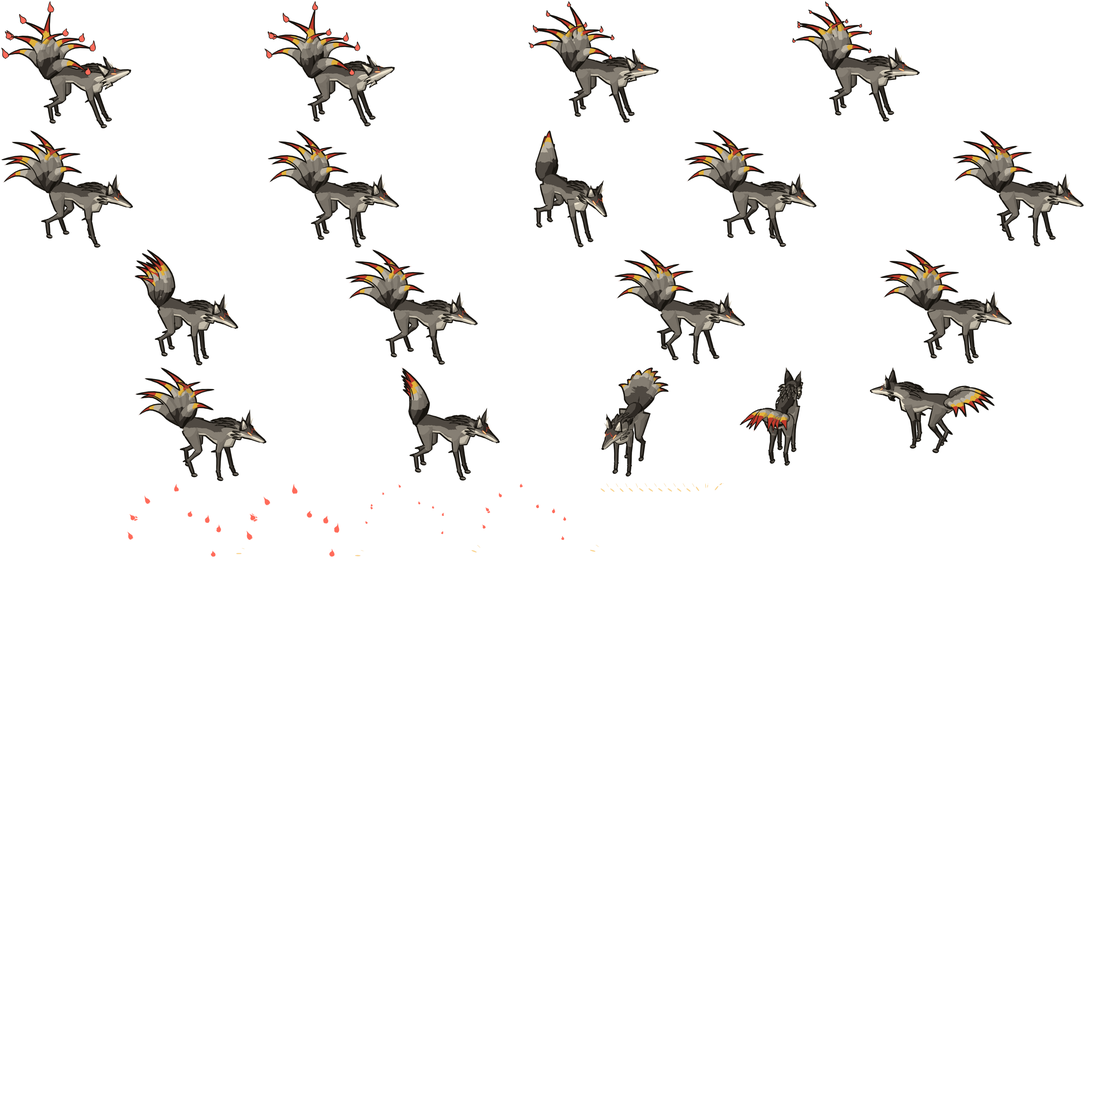
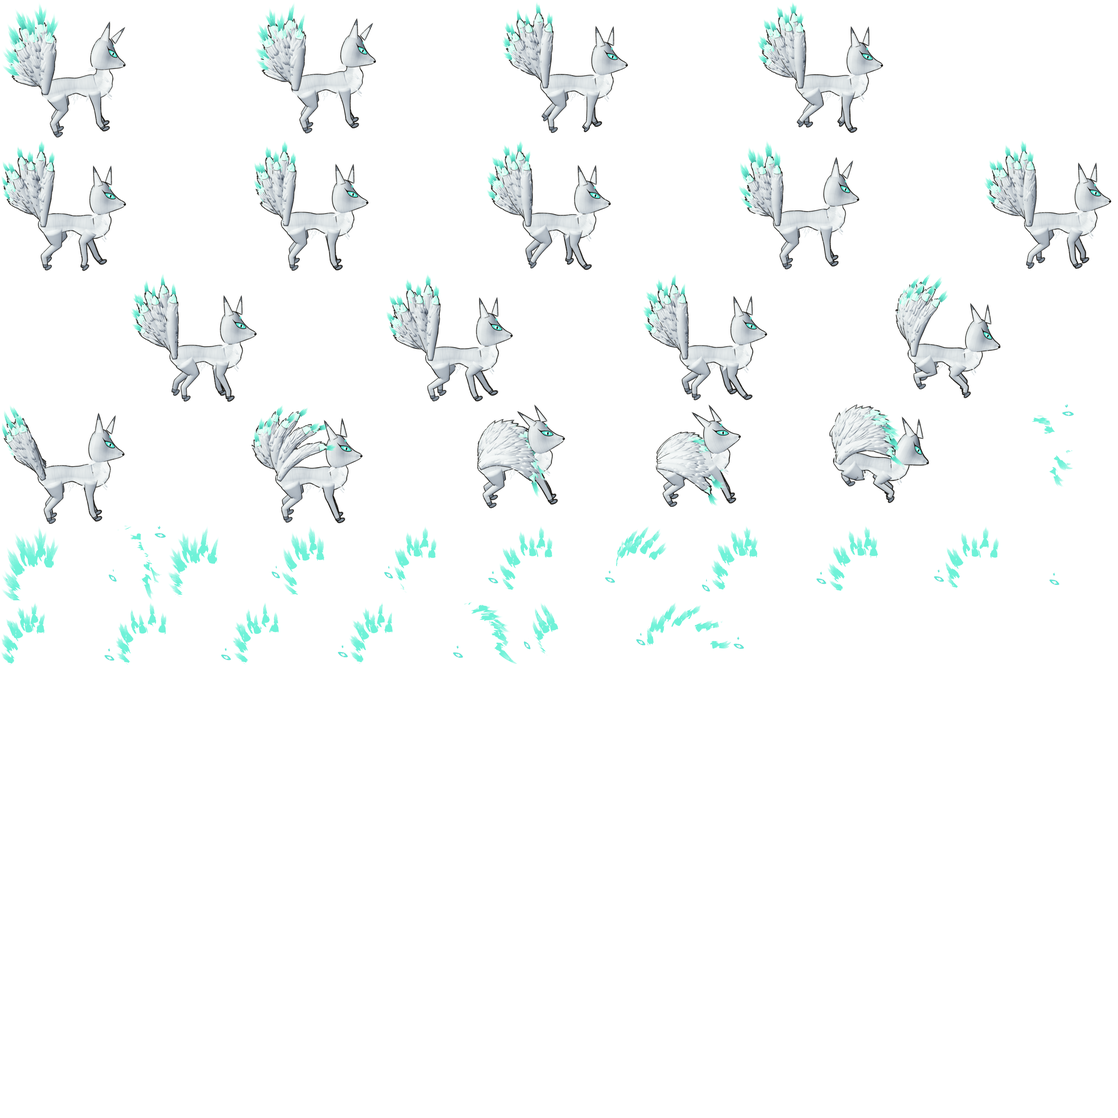
美术：九尾按精修三维重画（第五批）
- 九尾借赤面狐的骨架、头、耳、腿和尾巴做法，放大拉长：月白的毛、青眼、额心一簇青火印，
  九条尾巴扇形展开，尾尖一截青火带火舌。扫尾时九尾从背上往前拱、再往前下扫；召唤时尾巴张到最开、尾火腾起。
- 尾火走 AOV 发光（尾巴是一整个物体，挂发光材质会整条进发光层）。
- 帧 640²、锚点、动画名、方向、挂点 eyes 都不变；配准只取躯干一段（register_band），尾巴扇面不干扰。
- contact_radius 34.8（move；sweep 42.4、summon 31.9），原来按 radius 40；眼色改成 #5FE8D6。
- boss 图集只有九尾，没换的帧 0 个；check_asset、check_atlas 通过。

Claude-Session: https://claude.ai/code/session_016wrsqW1m7DE4TZou4HCj3C

diff --git a/art/models/boss_v2.py b/art/models/boss_v2.py
@@ -1,0 +1,325 @@
+"""九尾（精修三维，夜主）：巨大的白狐，九条尾巴像扇面一样展开，尾尖染着青火。
+
+设定（LORE 附录）：“青丘之山……有兽焉，其状如狐而九尾。”古书里它吃人，也是涂山的祥瑞；长夜里，它是狐村所有小狐狸的母亲。
+外形（世界观会话）：巨大的白狐，身形修长，九条尾巴像扇面一样展开，尾尖染着青火。额心一点青，眼睛也是青的。
+脸上不画红（和赤面狐分开）。主色月白、青；美而凛，是护崽的母亲，凶起来不留情。
+造型：借用赤面狐（models/fox_v2.py：同一族）的骨架、躯干、头、耳、腿和尾巴的做法，整体放大、拉高拉长（修长）；
+毛是月白（暗部偏青灰），耳背、耳尖淡青灰；没有朱砂脸谱、没有红绳；额心一簇青火形的印记（发光），眼是青的丹凤眼（发光），
+墨勾眼线、竖瞳；颊后一圈白毛炸开（像披风领）。九条尾巴从尾根扇形展开（前后错开几层），尾尖一截是青火（发光），
+火舌往外飘。
+动画（只画 E）：
+  move   8 帧：赤面狐的小跑步态，九尾张着扇面、一条条带着波轻轻摆。
+  sweep  6 帧（不循环，2 帧蓄力）：0 伏低、九尾往上收拢，1 九尾从背上往前拱过来、尾火大盛（预警期间停在这一帧），
+         2 往前下方一扫而过，3 扫到身前低处，4、5 收回扇面。
+  summon 4 帧（不循环）：昂头，九尾张到最开、尾尖的青火一盏盏腾起来（召狐火），3 稍落。
+帧 640²（2 倍），锚点 (0.5, 0.8)（大妖物）。挂点 eyes。
+
+    root, parts, sockets = build_boss()
+    pose_boss(parts, "move", i, 8)
+"""
+
+from __future__ import annotations
+
+import math
+import sys
+from pathlib import Path
+
+import bpy
+import numpy as np
+from mathutils import Matrix, Vector
+
+ART = Path(__file__).resolve().parents[1]
+for p in (ART, ART / "models", ART / "post"):
+    if str(p) not in sys.path:
+        sys.path.insert(0, str(p))
+from style import bstyle as B  # noqa: E402
+from style import style as S  # noqa: E402
+import kit as K  # noqa: E402
+import v2kit as V2  # noqa: E402
+import enemy_design as DZ  # noqa: E402
+import fox_v2 as FX  # noqa: E402
+
+I = S.INK
+EYE = "#5FE8D6"  # 青眼
+EYE_HOT = "#E6FFFB"
+FIRE = "#6FF2D8"  # 尾尖的青火
+FIRE_HOT = "#E8FFF9"
+SCALE = (1.9, 2.05, 2.15)  # 模型坐标的 (左右, 前后, 高)：整体放大，拉长、拉高（修长）
+WHITE = "#F6F8F8"
+# 月白的毛（d 从暗到亮）：暗部偏青灰、亮部近白
+FUR_STOPS = [(0.00, "#323A46"), (0.16, "#4A5564"), (0.30, "#66717F"), (0.44, "#86909C"), (0.56, "#A4AEB8"),
+             (0.68, "#C2CAD0"), (0.80, "#DCE2E4"), (0.90, "#EDF1F1"), (1.00, WHITE)]
+EAR_STOPS = [(0.0, "#2C3440"), (0.5, "#56626E"), (0.85, "#7E8A96"), (1.0, "#9AA6B0")]  # 耳背、耳尖：淡青灰
+FIRE_STOPS = [(0.0, "#3FB8A6"), (0.45, FIRE), (1.0, FIRE_HOT)]
+RIM = S.mix("#DDF6F2", I["qing"], 0.15)
+N_TAILS = 9
+
+
+def fur_material(name, seed, zone=True, streak=0.16, bias=-0.3, rim=0.6):
+    return V2.paint_material(name, FUR_STOPS, wash=0.24, wash_scale=2.6, seed=seed, shade_attr="zone" if zone else None,
+                             shade_gain=1.0, streak=streak, streak_scale=(4.0, 60.0), rim_hex=RIM, rim=rim,
+                             rim_power=2.3, value_var=0.04, edge=0.22, bias=bias)
+
+
+def _world_to_design(w):
+    right, up, _ = B.camera_basis()
+    return 25.0 * w.dot(right), 25.0 * w.dot(up)
+
+
+# ================================================================ 组装
+def build_boss():
+    root = B.empty("JWRoot")
+    scale = B.empty("JWScale", root)
+    scale.scale = SCALE
+    body = B.empty("JWBody", scale)
+    M_fur = fur_material("JWFur", 3.0, bias=-0.06)
+    M_leg = fur_material("JWFurLeg", 5.0, bias=-0.06)
+    M_far = fur_material("JWFurFar", 6.0, bias=-0.36, rim=0.35)
+    M_head = fur_material("JWFurHead", 7.0, bias=-0.02)
+    M_tail = fur_material("JWFurTail", 9.0, streak=0.24, bias=-0.04)
+    M_ear = V2.paint_material("JWEar", EAR_STOPS, wash=0.2, seed=11.0, rim_hex=RIM, rim=0.5, edge=0.1)
+    M_paw = V2.paint_material("JWPaw", [(0.0, "#2A323C"), (0.5, "#5A6674"), (1.0, "#8A96A2")], wash=0.2, seed=12.0,
+                              edge=0.1)
+    M_cream = V2.paint_material("JWCream", [(0.0, "#9AA6B0"), (0.4, "#D6DEE2"), (0.7, "#EEF2F2"), (1.0, WHITE)],
+                                wash=0.2, seed=14.0, edge=0.1)
+    # 尾尖一截：青火（不用发光材质：发光层按物体分，整条尾巴都会算进去；这里走 AOV，只有尾尖亮）
+    M_fire = V2.paint_material("JWTailFire", FIRE_STOPS, wash=0.2, seed=10.0, edge=0.0, bias=0.35)
+    V2.add_glow_const(M_fire, 1.0)
+    M_eye = B.emissive_material("JWEye", EYE, 1.0)
+    M_hot = B.emissive_material("JWEyeHot", EYE_HOT, 1.0)
+    M_mark = B.emissive_material("JWMark", EYE, 1.0)
+    M_jiao = B.flat_material("JWJiao", I["jiao"])
+    M_flame = V2.brush_material("JWFlame", FIRE_STOPS, alpha=0.95, edge_soft=0.3, edge_dark=0.0, streak=0.35,
+                                streak_from=0.45, scale=(3.0, 8.0), fade_from=0.55, seed=31.0, glow=1.0, glow_to=0.9,
+                                glow_tip=0.5, comb=5.0)
+    parts = {"root": root, "scale": scale, "body": body}
+    FX.build_torso(body, M_fur)
+    # 胸前一蓬白毛、腹下一排毛簇
+    roots, dirs, lens, ws = [], [], [], []
+    rng = np.random.default_rng(5)
+    for k in range(18):
+        a = rng.uniform(-0.9, 0.9)
+        zc = rng.uniform(13.0, 23.0)
+        roots.append(FX.d2m(13.2 - 0.2 * abs(a) - 0.08 * (22 - zc), zc, 0.12 * a))
+        dirs.append(Vector((0.3 * a, -0.55, -0.85)))
+        lens.append(rng.uniform(0.11, 0.18)); ws.append(rng.uniform(0.035, 0.05))
+    for k in range(14):
+        x = rng.uniform(-7.0, 7.0)
+        roots.append(FX.d2m(x, 14.6 + 0.10 * abs(x), rng.uniform(-0.12, 0.12)))
+        dirs.append(Vector((0, 0.35, -1))); lens.append(rng.uniform(0.07, 0.11)); ws.append(0.035)
+    B.mesh_object("JWChestFur", FX.clumps_build(roots, dirs, lens, ws), M_cream, "none", body, sharp_deg=0)
+    # 腿
+    parts["legs"] = {}
+    for far in (False, True):
+        lat = 0.11 if far else -0.11
+        for name, rootp, segs, rad in (("front", DZ.FOX_SHOULDER, DZ.FOX_FRONT_LEG, FX.LEG_R["front"]),
+                                       ("hind", DZ.FOX_HIP, DZ.FOX_HIND_LEG, FX.LEG_R["hind"])):
+            nm = f"JW{name.title()}{'Far' if far else 'Near'}"
+            pts = [FX.d2m(x, y, lat) for x, y in DZ.fox_leg(rootp, segs)]
+            ob = FX.leg_tube(nm, pts, [r * 0.92 for r in rad], [M_far if far else M_leg, M_paw], scale,
+                             zones=lambda t: 1 if t > 0.88 else 0)
+            paw = B.mesh_object(nm + "Paw", K.ellipsoid(FX.PAW_R), M_paw, "outer", scale)
+            parts["legs"][(name, far)] = (ob, paw, lat, [r * 0.92 for r in rad])
+    # 头（转轴在颈根），朝镜头转一点
+    neck = FX.d2m(*DZ.FOX_NECK)
+    head_piv = B.empty("JWHeadPivot", scale, loc=neck)
+    head_yaw = B.empty("JWHeadYaw", head_piv, rot=(0, 0, math.radians(-12)))
+    head = FX.build_head(head_yaw, M_head)
+    # 颊后一圈白毛炸开（像披风领）
+    roots, dirs, lens, ws = [], [], [], []
+    for k in range(20):
+        a = rng.uniform(-1, 1)
+        roots.append(FX.d2m(12.2 + rng.uniform(-1.0, 1.8), 25.4 + rng.uniform(-1.6, 1.6), 0.14 * a) - neck)
+        dirs.append(Vector((0.45 * a, 0.75, -0.5)))
+        lens.append(rng.uniform(0.11, 0.18)); ws.append(rng.uniform(0.032, 0.048))
+    B.mesh_object("JWCheekFur", FX.clumps_build(roots, dirs, lens, ws), M_cream, "none", head_yaw, sharp_deg=0)
+    ear_n = FX.build_ear("JWEarNear", DZ.FOX_EAR_NEAR, head_yaw, M_head, M_cream, M_ear, neck)
+    ear_f = FX.build_ear("JWEarFar", DZ.FOX_EAR_FAR, head_yaw, M_head, M_cream, M_ear, neck)
+    ear_n.location.x -= 0.07
+    ear_f.location.x += 0.09
+    B.mesh_object("JWNose", K.ellipsoid((0.028, 0.022, 0.02)), M_jiao, "none", head_yaw,
+                  loc=FX.d2m(*DZ.FOX_NOSE) - neck + Vector((0, -0.005, 0.004)))
+    # 九条尾巴（每帧重建）：尾身白、尾尖一截青火（材质槽 1）
+    tails = []
+    for k in range(N_TAILS):
+        t = B.mesh_object(f"JWTail{k}", lambda bm: None, [M_tail, M_fire], "outer", scale)
+        tf = B.mesh_object(f"JWTailFur{k}", lambda bm: None, [M_tail, M_fire], "none", scale)
+        bpy.data.collections[B.CONTOUR_COLLECTION].objects.link(tf)
+        tails.append((t, tf))
+    flames = V2.mesh_from_arrays("JWFlames", [(0, 0, 0), (0.001, 0, 0), (0, 0.001, 0)], [(0, 1, 2)], M_flame, "none",
+                                 scale)
+    parts.update(head_piv=head_piv, head_yaw=head_yaw, head=head, ear_n=ear_n, ear_f=ear_f, tails=tails, flames=flames,
+                 neck=neck)
+    # 脸：E 向静止姿态下按设计稿投到头上——墨勾的丹凤眼、青眼、竖瞳，额心一簇青火形的印记
+    B.set_direction(root, "E")
+    bpy.context.view_layer.update()
+    tree = V2.bvh_world(head)
+
+    def scr(pts):  # 赤面狐设计稿上头部的点 → 这里画面上的点（经过放大、转头）
+        return [_world_to_design(head_yaw.matrix_world @ (FX.d2m(x, y) - neck)) for x, y in pts]
+    V2.design_patch("JWEyeInk", tree, V2.closed_smooth(scr(DZ.FOX_EYE_INK), 60), M_jiao, head_yaw, lift=0.006,
+                    spacing=0.5)
+    V2.design_patch("JWEye", tree, V2.closed_smooth(scr(DZ.fox_eye_poly(1.0)), 40), M_eye, head_yaw, lift=0.007,
+                    spacing=0.4)
+    V2.design_patch("JWEyeHot", tree, V2.closed_smooth(scr(DZ.fox_eye_poly(0.5)), 28), M_hot, head_yaw, lift=0.008,
+                    spacing=0.3)
+    (ex, ey), hl, hh, tilt = DZ.FOX_EYE2
+    a = math.radians(tilt)
+    pupil = [(ex + x * math.cos(a) - y * math.sin(a), ey + x * math.sin(a) + y * math.cos(a))
+             for x, y in ((0.10 * hl, 0.80 * hh), (-0.07 * hl, 0.0), (0.10 * hl, -0.78 * hh), (0.24 * hl, 0.0))]
+    V2.design_patch("JWPupil", tree, V2.closed_smooth(scr(pupil), 24), M_jiao, head_yaw, lift=0.009, spacing=0.25)
+    # 额心的青印：一簇往上挑的小火苗（三瓣）
+    cx, cy = DZ._hx([(17.3, 33.0)])[0]  # 额心：两眼之上、眉心往上一点
+    mark = [(cx + 0.75 * x, cy + 0.75 * y) for x, y in
+            ((0.0, -0.7), (0.5, -0.05), (0.26, 0.55), (0.08, 1.25), (-0.16, 0.5), (-0.55, 0.8), (-0.5, -0.05))]
+    V2.design_patch("JWMark", tree, V2.closed_smooth(scr(mark), 30), M_mark, head_yaw, lift=0.006, spacing=0.25)
+    (fx, fy), fl, fh, ft = DZ.FOX_EYE_FAR
+    inv = head_yaw.matrix_world.inverted()
+    rot3 = inv.to_3x3()
+    hits = V2.project_design(tree, scr([(fx, fy)]))
+    if hits[0][0] is not None:
+        p_ = inv @ hits[0][0]
+        n_ = (rot3 @ hits[0][1]).normalized()
+        B.mesh_object("JWEyeFar", K.ellipsoid((0.016, 0.018, 0.011)), M_eye, "none", head_yaw, loc=p_ + n_ * 0.004)
+    sock = B.empty("JWSocketEyes", head_yaw)
+    sock.location = FX.d2m(ex * 0.7 + fx * 0.3, ey * 0.7 + fy * 0.3) - neck
+    B.set_direction(root, "S")
+    parts["sockets"] = {"eyes": sock}
+    bpy.context.view_layer.update()
+    return root, parts, parts["sockets"]
+
+
+# ================================================================ 姿态
+# 九条尾巴的扇面（move 时）：根部的方向（度，从 +x 逆时针）、每节弯多少、离镜头（米，负 = 近）、长短
+FAN = [(92, -0.45, -0.22, 0.97), (101.5, -0.6, 0.16, 0.98), (111, -0.75, -0.14, 0.97), (120.5, -0.9, 0.22, 0.95),
+       (130, -1.0, -0.06, 0.91), (139.5, -1.1, 0.28, 0.86), (149, -1.2, 0.08, 0.78), (158.5, -1.3, 0.32, 0.7),
+       (168, -1.4, 0.18, 0.62)]  # 扇面：尾巴从尾根往上、往后一路排开，各自只略往上弯（不然九条都卷成一束）；后面的短（帧宽有限）
+
+
+def tail_layout(anim, frame, n):
+    """每条尾巴：(根部方向, 每节弯, 波幅, 相位, 长度倍数, 炸毛, 火的大小)。"""
+    ph = 2 * math.pi * frame / max(n, 1)
+    out = []
+    for k, (ang, curl, lat, ln) in enumerate(FAN):
+        if anim == "move":
+            out.append((ang + 3.0 * math.sin(ph + 0.6 * k), curl, 5.0, ph + 0.5 * k, ln, False, 1.0))
+        elif anim == "sweep":
+            # 0 往上收拢；1 从背上往前拱过来（预警时停在这）；2 往前下方扫；3 扫到身前低处；4、5 收回扇面
+            s = (k - 4) / 4.0
+            T = [(116 + 22 * s, -3.0, 1.0, 1.15), (92 + 26 * s, -6.4, 1.05, 1.6), (52 + 26 * s, -6.0, 1.05, 1.5),
+                 (18 + 26 * s, -3.6, 1.0, 1.2), (112 + 50 * s, -4.0, 0.98, 1.0), (ang - 4, curl, ln, 1.0)][frame]
+            a0, cu, lk, fire = T
+            out.append((a0, cu, 2.0, ph + 0.4 * k, ln * lk, frame in (1, 2), fire))
+        else:  # summon：张到最开、尾尖青火一盏盏腾起来
+            spread = [0.6, 1.12, 1.16, 1.06][frame]
+            a0 = min(145 + (ang - 145) * spread, 176.0)  # 最后面几条别甩出画（帧左边）
+            fire = [1.2, 1.6, 1.9, 1.4][frame]
+            ln2 = ln * (0.92 if k < 5 else 0.72)  # 后面几条短一点（别出画）
+            out.append((a0 - 6 * (frame in (1, 2)), curl * 0.8, 3.0, ph + 0.5 * k, ln2, frame in (1, 2), fire))
+    return out
+
+
+def pose_boss(parts, anim, frame, n):
+    if anim == "move":
+        pose = DZ.fox_move_pose(frame, n)
+    elif anim == "sweep":
+        F = [  # body(dx, dy, rot, sx, sy), head(rot, dx, dy), ears, 前腿, 后腿
+            ((-1.0, -2.6, -6, 1.02, 0.97), (-8, 0.6, -1.0), 22, [-22, 40, -10], [46, -70, 28]),
+            ((-1.8, -4.2, -9, 1.04, 0.94), (-14, 1.2, -1.8), 34, [-34, 56, -20], [60, -90, 42]),
+            ((1.6, -1.0, 6, 1.04, 0.97), (6, 0.8, -1.0), 24, [26, 24, 20], [20, -60, 20]),
+            ((2.0, -1.6, 8, 1.03, 0.97), (10, 0.8, -1.4), 18, [30, 20, 16], [24, -62, 22]),
+            ((0.8, -0.8, 2, 1.0, 1.0), (2, 0.4, -0.6), 8, [8, 10, 20], [26, -52, 10]),
+            ((0.0, 0.0, 0, 1.0, 1.0), (0, 0.0, 0.0), 0, None, None),
+        ]
+        body, head, ears, fl, hl = F[frame]
+        rest_f = [sg[1] for sg in DZ.FOX_FRONT_LEG]
+        rest_h = [sg[1] for sg in DZ.FOX_HIND_LEG]
+        fl = fl or rest_f
+        hl = hl or rest_h
+        pose = {"body": body, "head": head, "ears": ears,
+                "legs": {("front", False): fl, ("front", True): [fl[0] - 8, fl[1] + 4, fl[2] - 6],
+                         ("hind", False): hl, ("hind", True): [hl[0] + 6, hl[1] - 4, hl[2] + 4]}}
+    else:  # summon：昂头、身子略往后仰
+        R = [((-0.6, 0.6, 4, 1.0, 1.0), (-10, 0.0, 0.6), -6), ((-1.0, 1.4, 8, 1.0, 1.02), (-20, -0.4, 1.2), -12),
+             ((-1.0, 1.6, 9, 1.0, 1.03), (-24, -0.4, 1.4), -14), ((-0.6, 0.8, 5, 1.0, 1.01), (-14, -0.2, 0.8), -8)]
+        body, head, ears = R[frame]
+        rest_f = [sg[1] for sg in DZ.FOX_FRONT_LEG]
+        rest_h = [sg[1] for sg in DZ.FOX_HIND_LEG]
+        lift = [0, 10, 12, 6][frame]
+        fl = [rest_f[0] + lift, rest_f[1] - lift * 0.5, rest_f[2]]
+        pose = {"body": body, "head": head, "ears": ears,
+                "legs": {("front", False): fl, ("front", True): [fl[0] - 6, fl[1] + 4, fl[2]],
+                         ("hind", False): [rest_h[0] - 6, rest_h[1] - 8, rest_h[2] + 6],
+                         ("hind", True): [rest_h[0] - 2, rest_h[1] - 6, rest_h[2] + 4]}}
+    body = parts["body"]
+    dx, dy, rot, sx, sy = pose["body"]
+    piv = FX.d2m(*DZ.FOX_PIVOT)
+    R = Matrix.Rotation(math.radians(-rot), 4, "X")
+    Sc = Matrix.Diagonal((1.0, sx, sy, 1.0))
+    T = Matrix.Translation(piv + Vector((0, -dx / 25.0, dy / FX.VZ)))
+    Mb = T @ R @ Sc @ Matrix.Translation(-piv)
+    body.matrix_basis = Mb
+    # 腿（同赤面狐：站地的腿收短，脚不陷进地里）
+    for (name, far), (ob, paw, lat, rad) in parts["legs"].items():
+        segs = DZ.FOX_FRONT_LEG if name == "front" else DZ.FOX_HIND_LEG
+        root2 = DZ.FOX_SHOULDER if name == "front" else DZ.FOX_HIP
+        r3 = Mb @ FX.d2m(*root2, lat)
+        angs = [a + rot for a in pose["legs"][(name, far)]]
+        angs = DZ.fox_leg_ground(FX._to2(r3), segs, angs, name)
+        pts = [FX.d2m(x, y, lat) for x, y in DZ.fox_leg(FX._to2(r3), segs, angs)]
+        dense = []
+        for a_, b_ in zip(pts[:-1], pts[1:]):
+            for t in np.linspace(0, 1, 6, endpoint=False):
+                dense.append(a_.lerp(b_, t))
+        dense.append(pts[-1])
+        rr = np.interp(np.linspace(0, 1, len(dense)), np.linspace(0, 1, len(rad)), rad)
+        K.replace_mesh(ob, K.tube_build(dense, lambda t, rr=rr: float(np.interp(t, np.linspace(0, 1, len(rr)), rr)), 14,
+                                        zones=lambda t: 1 if t > 0.88 else 0))
+        zs = [0.42 * max(0.0, -v.normal.y) ** 1.5 - 0.18 * max(0.0, v.normal.y) for v in ob.data.vertices]
+        B.set_point_attr(ob, "zone", zs)
+        tipv = (pts[-1] - pts[-2]).normalized()
+        paw.location = pts[-1] + Vector((0, -0.045, -0.012))
+        paw.rotation_euler = (math.atan2(tipv.z, -tipv.y) * 0.4, 0, 0)
+    # 头
+    hrot, hdx, hdy = pose["head"]
+    hp = parts["head_piv"]
+    hp.location = Mb @ parts["neck"] + Vector((0, -hdx / 25.0, hdy / FX.VZ))
+    hp.rotation_euler = (math.radians(-(hrot + rot)), 0, 0)
+    e = math.radians(-pose["ears"])
+    for ear in (parts["ear_n"], parts["ear_f"]):
+        ear.rotation_euler = (e, 0, 0)
+    # 九尾：从尾根扇形展开；尾尖青火的火舌（扁带）往外飘
+    root_t = FX._to2(Mb @ FX.d2m(*DZ.FOX_TAIL_ROOT))
+    flames = []
+    for k, ((t_ob, tf_ob), (ang, curl, wave, ph, ln, puff, fire)) in enumerate(
+            zip(parts["tails"], tail_layout(anim, frame, n))):
+        lat = FAN[k][2]
+        c2 = DZ.fox_tail_curve(root_t, angle=ang + rot, curl=curl, wave=wave, ph=ph, n=18,
+                               length=DZ.FOX_TAIL_LEN * 0.92 * ln)
+        back = c2[0] - (c2[1] - c2[0]) / np.linalg.norm(c2[1] - c2[0]) * 1.2
+        c2 = np.vstack([back, c2])
+        cm = [FX.d2m(x, y, lat + 0.01 * j / len(c2)) for j, (x, y) in enumerate(c2)]
+        tube, fur = FX._tail_geom(cm, 0.82 if puff else 0.62, seed=21 + k)
+        K.replace_mesh(t_ob, tube)
+        K.replace_mesh(tf_ob, fur)
+        # 火舌：尾尖往外三条，略往上飘、随相位抖
+        tip = np.asarray(c2[-1])
+        d = np.asarray(c2[-1]) - np.asarray(c2[-3])
+        d /= np.linalg.norm(d) + 1e-9
+        base_a = math.degrees(math.atan2(d[1], d[0]))
+        for j, (da, lj) in enumerate(((-24.0, 0.8), (0.0, 1.0), (22.0, 0.75))):
+            a0 = base_a + da * 0.6 + 8.0 * math.sin(ph * 1.7 + j)
+            pts, w = [], []
+            x, y = tip - d * 1.2
+            L = 5.5 * fire * lj
+            for q in np.linspace(0, 1, 9):
+                aa = math.radians(a0 + (90.0 - a0) * 0.35 * q * q + 10.0 * math.sin(ph + 3 * q + j))
+                pts.append((x, y))
+                x += math.cos(aa) * L / 8
+                y += math.sin(aa) * L / 8
+                w.append(2.0 * fire ** 0.5 * (1 - q) ** 0.8 + 0.15)
+            P, Wm, Sd = V2.design_strip(np.asarray(pts), np.asarray(w), lat - 0.03)
+            flames.append(V2.strip_arrays(P, Wm, Sd))
+    Vf, Ff, Af = V2.merge_arrays(flames)
+    K.replace_mesh(parts["flames"], V2.arrays_build(Vf, Ff), smooth=False, attrs=Af)
+    bpy.context.view_layer.update()

diff --git a/art/render/enemies_v2.py b/art/render/enemies_v2.py
@@ -102,6 +102,17 @@ V2 = {
              "anims": [("move", 6, 10, {})], "radius": 14, "eye": "#FFF1C2", "glow": "#FFD36B", "lines": (1.6, 1.0, 0.75),
              "sockets": ("eyes",), "shadow_units": 11.25,
              "meta": {"category": "enemy", "vertical_motion": True, "default_anim": "move"}},
+    # 九尾：夜主，白狐九尾、尾尖青火；帧 640²、锚点 (0.5, 0.8)；扫尾 2 帧蓄力；尾火只走 AOV 发光（尾巴整条是一个物体，挂发光材质会整条进发光层）
+    "boss": {"module": "boss_v2", "build": "build_boss", "pose": "pose_boss", "size_1x": 320,
+             "anchor": S.BIG_ENEMY_ANCHOR,
+             "anims": [("move", 8, 8, {}),
+                       ("sweep", 6, 10, {"loop": False, "windup_frames": 2, "vertical_motion": True}),
+                       ("summon", 4, 6, {"loop": False, "vertical_motion": True})],
+             "radius": 44, "eye": "#5FE8D6", "glow": "#6FF2D8", "lines": (2.2, 1.25, 0.85), "sockets": ("eyes",),
+             "shadow_units": 35.25,
+             # 配准取躯干那一段（九尾的扇面一甩一甩，默认的条带会扫到尾根）
+             "meta": {"category": "boss", "register_x_only": True, "anchor_kind": "big_enemy", "default_anim": "move",
+                      "register_band": [0.58, 0.74]}},
     # 赤面狐：精英，帧 320²、锚点 (0.5, 0.8)；扑击 2 帧蓄力
     "fox": {"module": "fox_v2", "build": "build_fox", "pose": "pose_fox", "size_1x": 160, "anchor": S.BIG_ENEMY_ANCHOR,
             "anims": [("move", 8, 12, {"vertical_motion": True}),  # 小跑一步一起伏 1.7 单位（自检不查逐帧身高）

diff --git a/art/README.md b/art/README.md
@@ -411,7 +411,7 @@ mkdir -p assets/atlas/screens/hub && cp art/out/screens/hub/* assets/atlas/scree
 素材名、动画名、方向、挂点都不变，游戏按名字取图，不用改代码。
 
 ```bash
-LANTERN_ART_DENSITY=2 art/.venv/bin/python art/render/produce.py --only shade,fox,wisp,golem,fox_wisp,bamboo_wraith,taofeng_fox,ghoul,stonelord,toad  # 正式出图（V2 表里的素材走 enemies_v2）
+LANTERN_ART_DENSITY=2 art/.venv/bin/python art/render/produce.py --only shade,fox,wisp,golem,fox_wisp,bamboo_wraith,taofeng_fox,ghoul,stonelord,toad,boss  # 正式出图（V2 表里的素材走 enemies_v2）
 LANTERN_ART_DENSITY=2 art/.venv/bin/python art/render/enemies_v2.py --preview fox:pounce:3 out.png   # 单帧预览（3 倍）
 art/.venv/bin/python art/post/check_asset.py art/out/assets@2x/shade art/out/assets@2x/fox
 art/.venv/bin/python art/post/enemy_review.py b1 shade fox   # 审图 → review@2x/redo_b1_*（和现版并排、1080p 实际大小、3 倍）、redo_<素材>_<动画>.gif
@@ -432,6 +432,7 @@ art/.venv/bin/python art/post/check_atlas.py
 | `models/taofeng_v2.py` | 讨封狐：扮人是斗笠（顶上三片竹叶）、三层蓑衣、竹杖，蓑衣底下露一截尾巴；现形是穿旧靛蓝袍、长袖的直立狐狸，斗笠挂在背上，眯眼笑（头、耳、尾借用赤面狐） |
 | `models/stonelord_v2.py` | 石将：隐式曲面凿出来的石翁仲（3/4 侧面），圆顶盔、护心镜、披膊、鱼鳞甲裙（刻槽走 zone 属性）、双手拄长刀；风化起伏、雨痕、青苔从脚往上爬（moss 属性），落脚两帧崩石屑 |
 | `models/toad_v2.py` | 金蟾：圆胖的金身子（一身小疙瘩）、背上嵌七枚铜钱、嘴里衔一枚、三条腿（一条后腿），耷拉眼皮斜眼瞟（贼）；一蹦一蹦，身后掉钱；夜里眼珠和铜钱泛金光 |
+| `models/boss_v2.py` | 九尾（夜主）：借用赤面狐的骨架、躯干、头、耳、腿和尾巴做法，放大拉长；月白的毛、青眼、额心一簇青火印；九条尾巴扇形展开，尾尖一截青火（AOV 发光）带火舌；扫尾时九尾从背上往前拱、再往前下扫，召唤时张到最开、尾火腾起 |
 | `models/ghoul_v2.py` | 青面鬼：隐式曲面捏出来的驼背大鬼（躯干、大肚子、四肢、头各一块），肚皮发白、透着魂光（AOV），獠牙、黑爪、铁箍、焦墨乱发、暗红破布 |
 | `post/enemy_design.py` | 设计稿（二维，纯数据）：比例、眼、裂缝、朱砂红脸的位置；赤面狐的骨架和每帧姿态 |
 | `post/enemy_review.py` | 按批审图（现版备份在 `out/assets@2x_old/`） |
@@ -442,6 +443,8 @@ art/.venv/bin/python art/post/check_atlas.py
 - 竹魅：帧 320²、锚点 (0.5, 0.875)，挂点 eyes、muzzle（蓄力时在竹刺尖上）。讨封狐：帧 256²（原 224²），reveal 写了 `vertical_motion`
   （一跳、蓑衣掀起，身高一帧一个样）。青面鬼：帧 320²、锚点 (0.5, 0.8)，身子整体往后挪，锚点在身子中心底下；move、charge 都写了
   `vertical_motion`（一步一沉）。
+- 九尾：帧 640²、锚点 (0.5, 0.8)（boss 图集，`atlas_swap.py --name boss`），`register_x_only`，配准只取躯干那一段（`register_band: [0.58, 0.74]`，尾巴扇面会扫进默认条带）；尾尖的火不能用发光材质
+  （发光层按物体分，整条尾巴都会进去），走 AOV（`add_glow_const`）。
 - 石将：帧 320²、锚点 (0.5, 0.8)，move 写了 `vertical_motion`（落脚一沉，盔顶跟着上下）。金蟾：帧 192²（原 160²），整体往后（离镜头远）挪 3.5 单位，
   近镜头那只手才不出画；`vertical_motion`（蹦）。
 - `v2kit.sdf_mesh`：隐式曲面网格化（surface nets，纯 numpy），配 `smin`、`sd_round_cone`、`sd_ellipsoid` 捏肌肉、肚子这种圆滚滚的形体；
